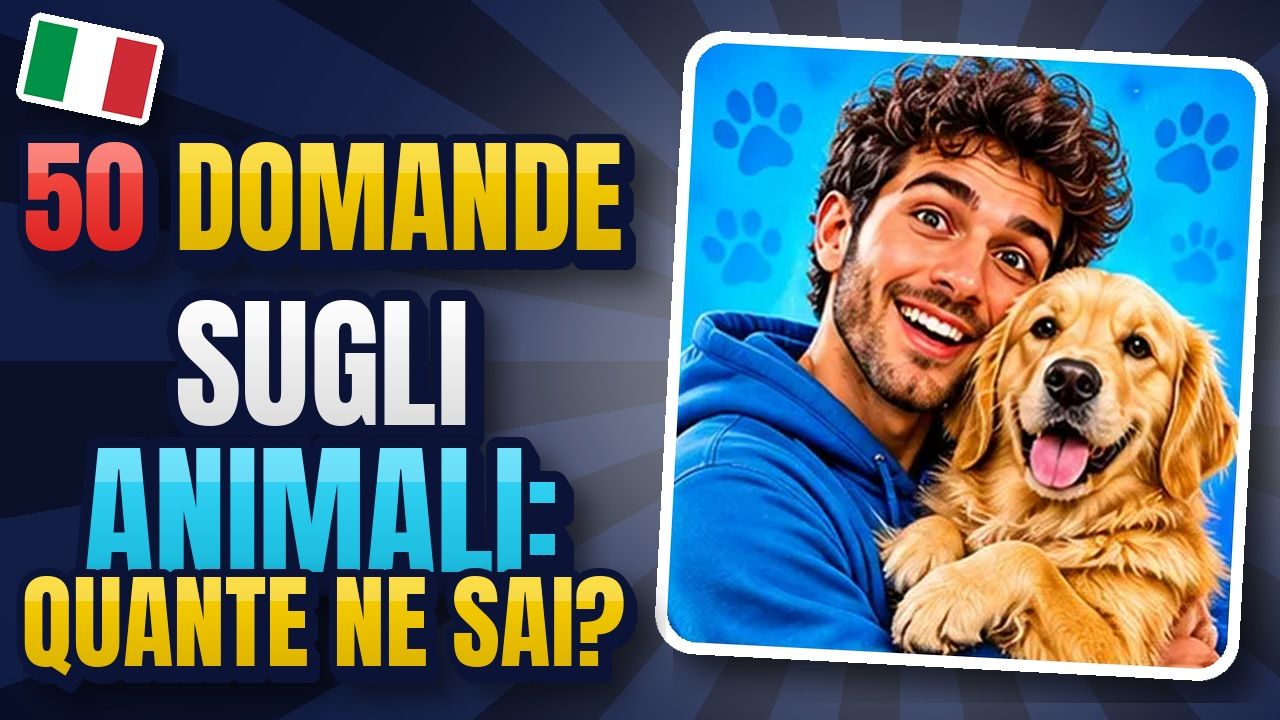
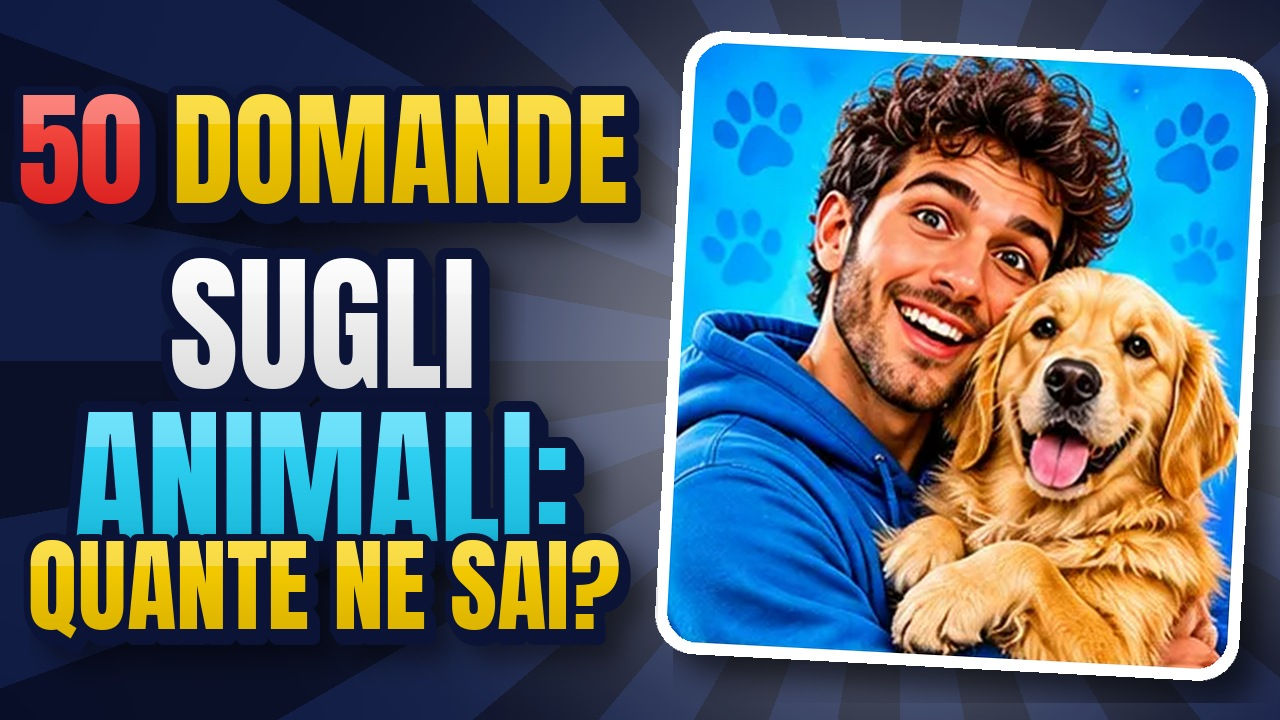
Copertine Ritratto senza bandierina, ripubblicate su 3 video
Claude-Session: https://claude.ai/code/session_017DDahVPzNBxTpTsVEg8auL

Changed region(s): [[0.0, 0.0, 0.5312, 0.9778]]

diff --git a/miniatura.py b/miniatura.py
@@ -319,15 +319,14 @@ def modello_ritratto(out, righe, ritratto, scuro=True):
     img.alpha_composite(cornice, (W - cornice.width + 10, (H - cornice.height) // 2 + 6))
     # testo a sinistra, ogni riga il suo colore; le parole con numeri in rosso
     larg = W - cornice.width - 30
-    n = len(righe); size = min(145, int((H - 130) / n / 1.02))
-    y = 95 + (H - 115 - n * size * 1.02) / 2 - size * 0.12      # sotto la bandierina
+    n = len(righe); size = min(150, int((H - 70) / n / 1.02))
+    y = (H - n * size * 1.02) / 2 - size * 0.12
     for i, riga in enumerate(righe):
         col = COLORI_RIGHE[i % len(COLORI_RIGHE)]
         parti = [(p, ROSSO if re.search(r"\d", p) else (col, tuple(max(0, c - 40) for c in col))) for p in riga.split()]
         lay_x = 30 + larg / 2
         testo3d(img, lay_x, y, parti, size, "assets/fonts/Anton-Regular.ttf", larg)
         y += size * 1.02
-    bandiera(img, 14, 10, w=120)
     img.convert("RGB").save(out, quality=93)
     return out
 

diff --git a/CLAUDE.md b/CLAUDE.md
@@ -44,7 +44,7 @@ Valgono per OGNI video e OGNI sessione. Non si derogano senza un ordine esplicit
   `personaggi.py`, in `assets/personaggi`) + fasce colorate con scritte grandi a destra.
   D "Classico": fasce gialle sopra/sotto e raggiera azzurra (lo stile dei video vincenti del
   canale). E "Ritratto" (stile GK Smart Point): fondo scuro, 4 righe di testo enorme
-  multicolore a sinistra, ritratto espressivo in cornice a destra, scelto per tema da
+  multicolore a sinistra, ritratto espressivo in cornice a destra (niente bandierina), scelto per tema da
   `assets/personaggi/ritratti/<tema>-<posa>.png`.
   Mai solo testo su fondo piatto; mai foto di persone reali o personaggi protetti da
   copyright.
